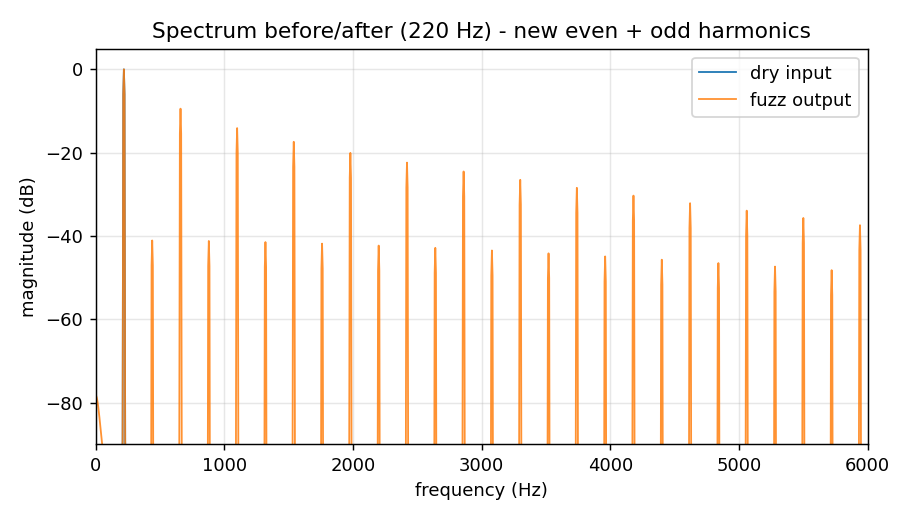
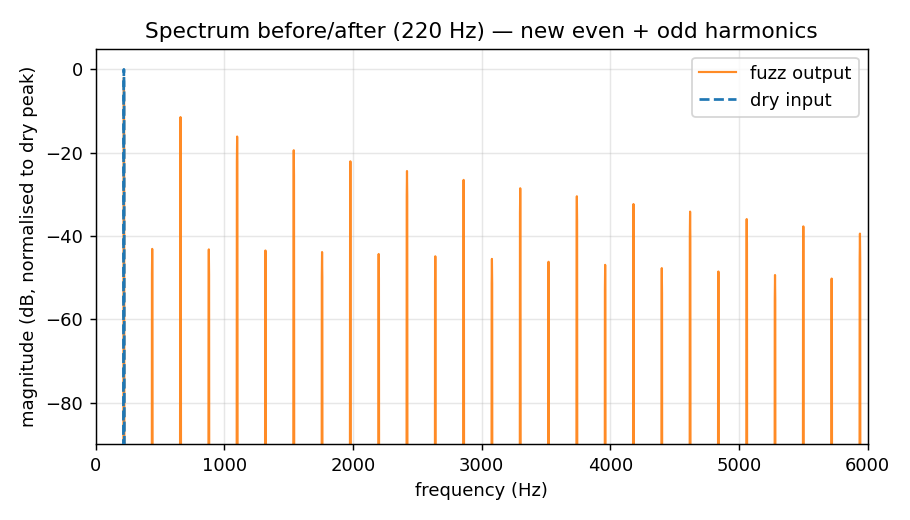
Fix spectrum figure: show dry input visibly with shared normalisation and dashed line

diff --git a/demo.py b/demo.py
@@ -32,7 +32,7 @@ DRY = ROOT / "samples" / "dry"
 WET = ROOT / "samples" / "wet"
 FIG = ROOT / "figures"
 
-DRY_FILES = ["speechshort.wav", "casta.wav"]
+DRY_FILES = ["speechshort.wav", "casta.wav", "jimi-hendrix-on-classical-guitar-purple-haze-Jãomusico.wav", "piano-nqalab.wav"]
 DEFAULTS = dict(gain=20.0, model="asym", neg_level=0.6, oversample=8, rh=0.995, rl=0.5)
 
 
@@ -63,7 +63,7 @@ def fig_characteristic() -> None:
     plt.close()
 
 
-def _sine(freq=220.0, sr=48000, dur=0.05):
+def _sine(freq=300.0, sr=48000, dur=0.05):
     t = np.arange(int(sr * dur)) / sr
     return 0.9 * np.sin(2 * np.pi * freq * t), sr
 
@@ -72,11 +72,11 @@ def fig_waveform() -> None:
     x, sr = _sine()
     y = ff.process(x, sr, **DEFAULTS)
     n = int(sr * 0.02)
-    t = np.arange(n) / sr * 1000.0
+    t = np.arange(n) / sr * 300.0
     plt.figure(figsize=(7, 4))
     plt.plot(t, x[:n], label="dry input", lw=1.2)
     plt.plot(t, y[:n], label="fuzz output", lw=1.2)
-    plt.title("Waveform before/after (220 Hz sine) - note asymmetric clipping")
+    plt.title("Waveform before/after (300 Hz sine) - note asymmetric clipping")
     plt.xlabel("time (ms)")
     plt.ylabel("amplitude")
     plt.legend()
@@ -86,25 +86,34 @@ def fig_waveform() -> None:
     plt.close()
 
 
-def _spectrum_db(sig, sr):
+def _spectrum_db(sig, ref_peak=None):
     win = np.hanning(len(sig))
     spec = np.abs(np.fft.rfft(sig * win))
-    spec /= np.max(spec) + 1e-12
-    freqs = np.fft.rfftfreq(len(sig), 1.0 / sr)
-    return freqs, 20 * np.log10(spec + 1e-9)
+    peak = ref_peak if ref_peak is not None else (np.max(spec) + 1e-12)
+    freqs = np.fft.rfftfreq(len(sig), 1.0 / 48000)
+    return freqs, 20 * np.log10(spec / peak + 1e-12)
 
 
 def fig_spectrum() -> None:
-    x, sr = _sine(freq=220.0, dur=0.2)
+    x, sr = _sine(freq=220.0, dur=0.5)
     y = ff.process(x, sr, **DEFAULTS)
-    fx, sx = _spectrum_db(x, sr)
-    fy, sy = _spectrum_db(y, sr)
+
+    win = np.hanning(len(x))
+    # Normalise both spectra to the dry signal's peak so the dry fundamental
+    # sits at 0 dB and the fuzz harmonics appear relative to it.
+    dry_peak = np.max(np.abs(np.fft.rfft(x * win))) + 1e-12
+    freqs = np.fft.rfftfreq(len(x), 1.0 / sr)
+    sx = 20 * np.log10(np.abs(np.fft.rfft(x * win)) / dry_peak + 1e-12)
+    sy = 20 * np.log10(np.abs(np.fft.rfft(y * np.hanning(len(y)))) / dry_peak + 1e-12)
+
     plt.figure(figsize=(7, 4))
-    plt.plot(fx, sx, label="dry input", lw=1.0)
-    plt.plot(fy, sy, label="fuzz output", lw=1.0, alpha=0.85)
-    plt.title("Spectrum before/after (220 Hz) - new even + odd harmonics")
+    # Draw fuzz first, then dry on top with a dashed line so both are visible.
+    plt.plot(freqs, sy, label="fuzz output", lw=1.2, color="tab:orange", alpha=0.9)
+    plt.plot(freqs, sx, label="dry input", lw=1.5, color="tab:blue",
+             linestyle="--", zorder=5)
+    plt.title("Spectrum before/after (220 Hz) — new even + odd harmonics")
     plt.xlabel("frequency (Hz)")
-    plt.ylabel("magnitude (dB)")
+    plt.ylabel("magnitude (dB, normalised to dry peak)")
     plt.xlim(0, 6000)
     plt.ylim(-90, 5)
     plt.legend()
